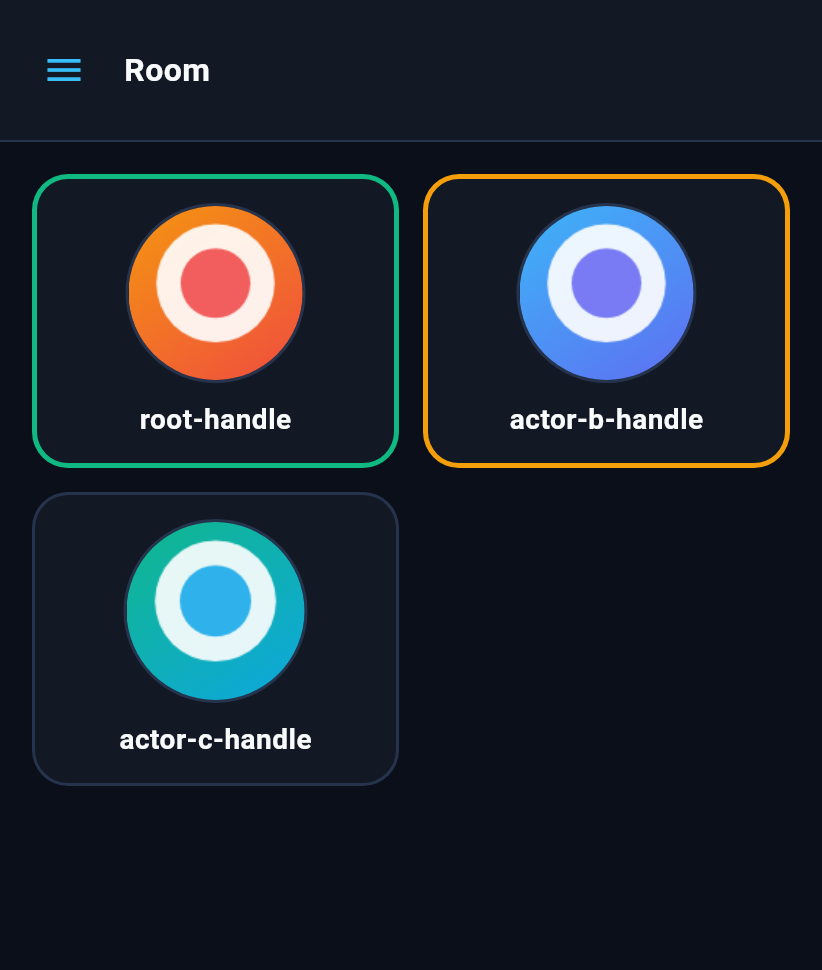
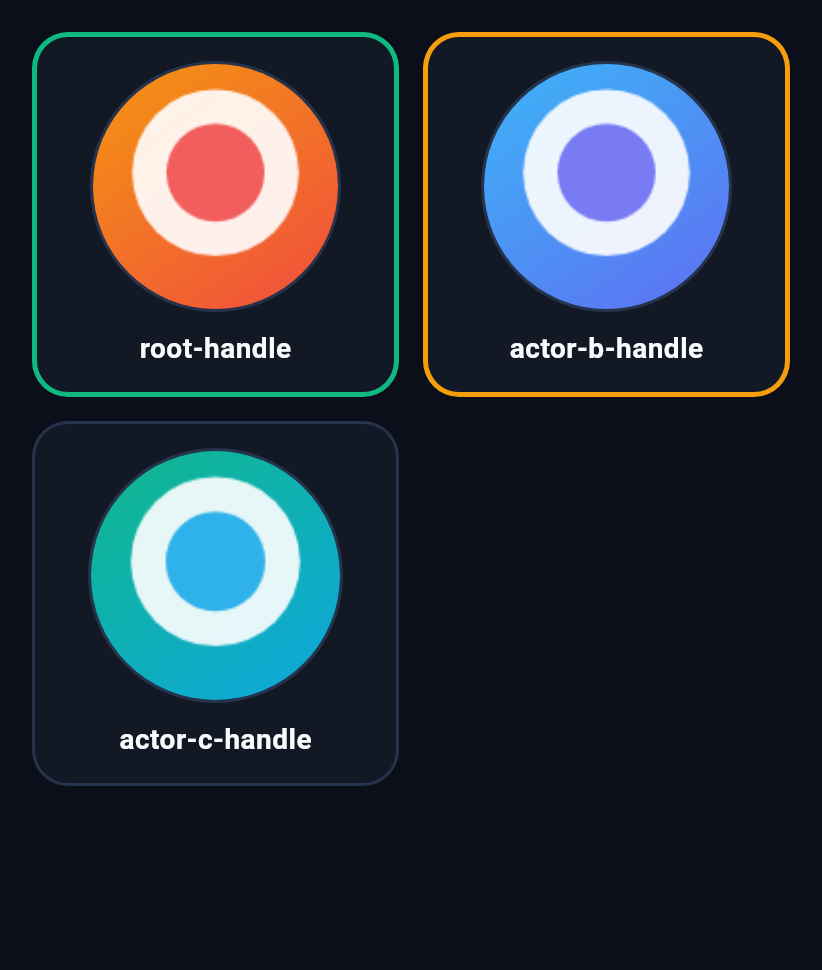
fix(dashboard): remove Room header and retain edge drawer (#859)

Changed region(s): [[0.0304, 0.0309, 0.9732, 0.7423], [0.2129, 0.7113, 0.2433, 0.7423]]

diff --git a/packages/rusa/flutter_dashboard/test/dashboard_back_navigation_test.dart b/packages/rusa/flutter_dashboard/test/dashboard_back_navigation_test.dart
@@ -7,6 +7,8 @@ import 'package:rusa_dashboard/session.dart';
 import 'package:rusa_dashboard/store.dart';
 import 'package:rusa_dashboard/widgets/chat_room.dart';
 import 'package:rusa_dashboard/widgets/dashboard_body.dart';
+import 'package:rusa_dashboard/widgets/header.dart';
+import 'package:rusa_dashboard/widgets/mobile_nav_drawer.dart';
 import 'package:rusa_dashboard/widgets/overview_tab.dart';
 import 'package:rusa_dashboard/widgets/work_tab.dart';
 
@@ -79,6 +81,11 @@ Future<void> _settle(WidgetTester tester) async {
   await tester.pump(const Duration(milliseconds: 50));
 }
 
+Future<void> _settleDrawer(WidgetTester tester) async {
+  await tester.pump();
+  await tester.pump(const Duration(milliseconds: 400));
+}
+
 Future<void> _tapNav(WidgetTester tester, String label) async {
   await tester.tap(find.widgetWithText(InkWell, label));
   await _settle(tester);
@@ -115,6 +122,71 @@ void main() {
   });
 
   group('browser/system back navigation', () {
+    for (final size in [const Size(390, 800), const Size(1200, 800)]) {
+      testWidgets(
+        'headerless Room retains edge drawer and back exits at ${size.width}px (#859)',
+        (tester) async {
+          await _withDashboard(
+            tester,
+            initialUrl: '/overview',
+            size: size,
+            body: (_) async {
+              expect(find.byType(MeshHeader), findsOneWidget);
+              if (size.width < 700) {
+                await tester.tap(find.byIcon(Icons.menu));
+                await _settleDrawer(tester);
+                await tester.tap(
+                  find.byKey(const ValueKey('drawer-nav-chatRoom')),
+                );
+                await _settleDrawer(tester);
+              } else {
+                await _tapNav(tester, 'Room');
+              }
+              expect(find.byType(ChatRoomTab), findsOneWidget);
+              expect(
+                find.byType(MeshHeader),
+                findsNothing,
+                reason: 'Room uses the full screen without a header',
+              );
+
+              await tester.dragFrom(const Offset(1, 200), const Offset(300, 0));
+              await _settleDrawer(tester);
+              expect(find.byType(MobileNavDrawer), findsOneWidget);
+              final scaffold = tester.state<ScaffoldState>(
+                find.byType(Scaffold).last,
+              );
+              expect(scaffold.isDrawerOpen, isTrue);
+
+              // Native back dismisses the gesture-opened drawer first.
+              expect(await tester.binding.handlePopRoute(), isTrue);
+              await _settleDrawer(tester);
+              expect(scaffold.isDrawerOpen, isFalse);
+              expect(find.byType(ChatRoomTab), findsOneWidget);
+
+              // Browser back restores the previous destination and its header;
+              // forward restores Room with no header again.
+              await _popTo(tester, '/overview');
+              expect(find.byType(OverviewTab), findsOneWidget);
+              expect(find.byType(MeshHeader), findsOneWidget);
+              await _popTo(tester, '/chat-room');
+              expect(find.byType(ChatRoomTab), findsOneWidget);
+              expect(find.byType(MeshHeader), findsNothing);
+
+              // The second exit actually reaches another destination.
+              await tester.dragFrom(const Offset(1, 200), const Offset(300, 0));
+              await _settleDrawer(tester);
+              await tester.tap(
+                find.byKey(const ValueKey('drawer-nav-overview')),
+              );
+              await _settleDrawer(tester);
+              expect(find.byType(OverviewTab), findsOneWidget);
+              expect(find.byType(MeshHeader), findsOneWidget);
+            },
+          );
+        },
+      );
+    }
+
     testWidgets(
       'startup preserves multi-entry mode without selecting single-entry history',
       (tester) async {
@@ -295,7 +367,7 @@ void main() {
             await tester.pump();
             await tester.pump(const Duration(milliseconds: 300));
             expect(find.byType(ChatRoomTab), findsOneWidget);
-            await tester.tap(find.byTooltip('Navigation'));
+            await tester.dragFrom(const Offset(1, 200), const Offset(300, 0));
             await tester.pump();
             await tester.pump(const Duration(milliseconds: 300));
             final scaffold = tester.state<ScaffoldState>(

diff --git a/packages/rusa/flutter_dashboard/test/room_header_screenshot_test.dart b/packages/rusa/flutter_dashboard/test/room_header_screenshot_test.dart
@@ -1,0 +1,75 @@
+// Matched synthetic review captures for #859. The same fixture runs against
+// staging (before) and the repair (after):
+// ROOM_HEADER_SCREENSHOT_LABEL=before flutter test test/room_header_screenshot_test.dart
+// flutter test test/room_header_screenshot_test.dart
+import 'dart:io';
+
+import 'package:flutter/material.dart';
+import 'package:flutter_test/flutter_test.dart';
+import 'package:rusa_dashboard/dashboard_url.dart';
+import 'package:rusa_dashboard/store.dart';
+import 'package:rusa_dashboard/theme.dart';
+import 'package:rusa_dashboard/widgets/chat_room.dart';
+import 'package:rusa_dashboard/widgets/dashboard_body.dart';
+
+import 'fakes.dart';
+import 'screenshot_support.dart';
+
+const _ids = ['root', 'actor-b', 'actor-c'];
+
+void main() {
+  setUpAll(loadFonts);
+  for (final entry in {
+    'cover': const Size(411, 485),
+    'phone': const Size(390, 800),
+    'wide': const Size(1200, 800),
+  }.entries) {
+    testWidgets('captures Room header ${entry.key} (#859)', (tester) async {
+      await tester.runAsync(() async {
+        HttpOverrides.global = FakeImageHttpOverrides(await portraits(_ids));
+        addTearDown(() => HttpOverrides.global = null);
+        addTearDown(() => tester.binding.setSurfaceSize(null));
+        debugDashboardUrl = '/chat-room';
+        addTearDown(() => debugDashboardUrl = null);
+
+        final api = FakeApi()
+          ..threadsResult = [for (final id in _ids) makeThread(id)]
+          ..chatRoomParticipants = _ids;
+        final walkie = FakeWalkie(api);
+        final store = DashboardStore(
+          api: api,
+          stream: FakeStream(),
+          walkie: walkie.deps,
+        );
+        await store.init();
+        addTearDown(store.dispose);
+        final boundary = GlobalKey();
+        await tester.binding.setSurfaceSize(entry.value);
+        await tester.pumpWidget(
+          MaterialApp(
+            debugShowCheckedModeBanner: false,
+            theme: buildMeshTheme(),
+            home: Scaffold(
+              body: RepaintBoundary(
+                key: boundary,
+                child: DashboardBody(store: store),
+              ),
+            ),
+          ),
+        );
+        await settleImages(tester, portraitUrls(_ids));
+        expect(find.byType(ChatRoomTab), findsOneWidget);
+        for (final id in _ids) {
+          expect(find.byKey(ValueKey('chat-room-avatar-$id')), findsOneWidget);
+        }
+        final label =
+            Platform.environment['ROOM_HEADER_SCREENSHOT_LABEL'] ?? 'after';
+        await captureBoundary(
+          boundary,
+          'screenshots/859_room_${entry.key}_$label.png',
+        );
+        expect(tester.takeException(), isNull);
+      });
+    });
+  }
+}

diff --git a/packages/rusa/flutter_dashboard/lib/widgets/dashboard_body.dart b/packages/rusa/flutter_dashboard/lib/widgets/dashboard_body.dart
@@ -215,7 +215,8 @@ class _DashboardBodyState extends State<DashboardBody> {
     return LayoutBuilder(
       builder: (context, constraints) {
         _resolveLandingView(constraints);
-        if (constraints.maxWidth >= kNarrowBreakpoint) {
+        if (constraints.maxWidth >= kNarrowBreakpoint &&
+            _view != DashboardView.chatRoom) {
           return _chrome();
         }
         // On a phone the header's leading slot carries the navigation: the
@@ -230,7 +231,9 @@ class _DashboardBodyState extends State<DashboardBody> {
             // A nested Scaffold of our own: the drawer has to hang off a
             // Scaffold, and this body is rendered directly — without main.dart's
             // — by the screenshot harness and the widget tests, so owning one
-            // keeps the drawer (and this file) VM-safe.
+            // keeps the drawer (and this file) VM-safe. Room uses this scaffold
+            // at every width: without its header, the left-edge drawer gesture
+            // is the navigation entry point on desktop as well as phones.
             return Scaffold(
               key: _scaffoldKey,
               backgroundColor: MeshColors.bgPrimary,
@@ -301,7 +304,7 @@ class _DashboardBodyState extends State<DashboardBody> {
       color: MeshColors.bgPrimary,
       child: Column(
         children: [
-          phoneHeader,
+          if (_view != DashboardView.chatRoom) phoneHeader,
           Expanded(
             child: _view == DashboardView.overview
                 ? OverviewTab(store: widget.store, onSelectView: _selectView)

diff --git a/packages/rusa/flutter_dashboard/test/chat_room_small_screen_screenshot_test.dart b/packages/rusa/flutter_dashboard/test/chat_room_small_screen_screenshot_test.dart
@@ -4,7 +4,7 @@
 //   flutter test test/chat_room_small_screen_screenshot_test.dart
 //
 // It writes `flutter_dashboard/screenshots/chat_room_small_three_<state>.png`:
-// the real dashboard body, phone header included, on the Room with three
+// the real dashboard body, with the Room's header removed (#859), with three
 // actors, idle, recording and speaking. The viewport approximates a flip
 // phone's cover screen: a 1080x1272 px panel at an assumed device pixel ratio
 // of 2.625 is about 411x485 logical px.
